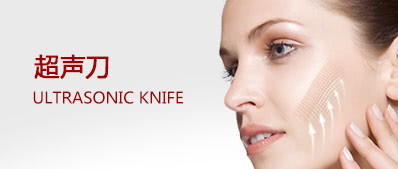
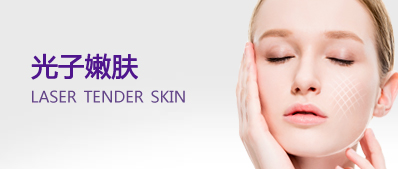
超声刀改为光子嫩肤
超声刀改为光子嫩肤

diff --git a/www.hzshuangmei.com/templets/shuangmei/index.htm b/www.hzshuangmei.com/templets/shuangmei/index.htm
@@ -113,9 +113,10 @@
                         <a class="j-site-consult" href="javascript:void(0)" target="_blank"><img src="{dede:global.cfg_imgpath/}/pc/p1_08.jpg" alt="无创量子祛斑"/></a>
                     </div>
                     <div class="right clearFix">
-                        <a class="j-site-consult" href="javascript:void(0)" target="_blank"><img src="{dede:global.cfg_imgpath/}/pc/p1_09.jpg" alt="超声刀"/></a>
-                        <a class="j-site-consult" href="javascript:void(0)" target="_blank"><img src="{dede:global.cfg_imgpath/}/pc/p1_10.jpg" alt="祛雀斑"/></a>
+                        <!--<a class="j-site-consult" href="javascript:void(0)" target="_blank"><img src="{dede:global.cfg_imgpath/}/pc/p1_09.jpg" alt="超声刀"/></a>-->
                         <a class="j-site-consult" href="javascript:void(0)" target="_blank"><img src="{dede:global.cfg_imgpath/}/pc/p1_11.jpg" alt="皮秒祛斑"/></a>
+                        <a class="j-site-consult" href="javascript:void(0)" target="_blank"><img src="{dede:global.cfg_imgpath/}/pc/p1_10.jpg" alt="祛雀斑"/></a>
+                        <a class="j-site-consult" href="javascript:void(0)" target="_blank"><img src="{dede:global.cfg_imgpath/}/pc/p1_09_1.jpg" alt="光子嫩肤"/></a>
                         <a class="j-site-consult" href="javascript:void(0)" target="_blank"><img src="{dede:global.cfg_imgpath/}/pc/p1_12.jpg" alt="清凉脱毛"/></a>
                         <a class="j-site-consult" href="javascript:void(0)" target="_blank"><img src="{dede:global.cfg_imgpath/}/pc/p1_13.jpg" alt="毛孔收缩"/></a>
                         <a class="j-site-consult" href="javascript:void(0)" target="_blank"><img src="{dede:global.cfg_imgpath/}/pc/p1_14.jpg" alt="激光除皱"/></a>
